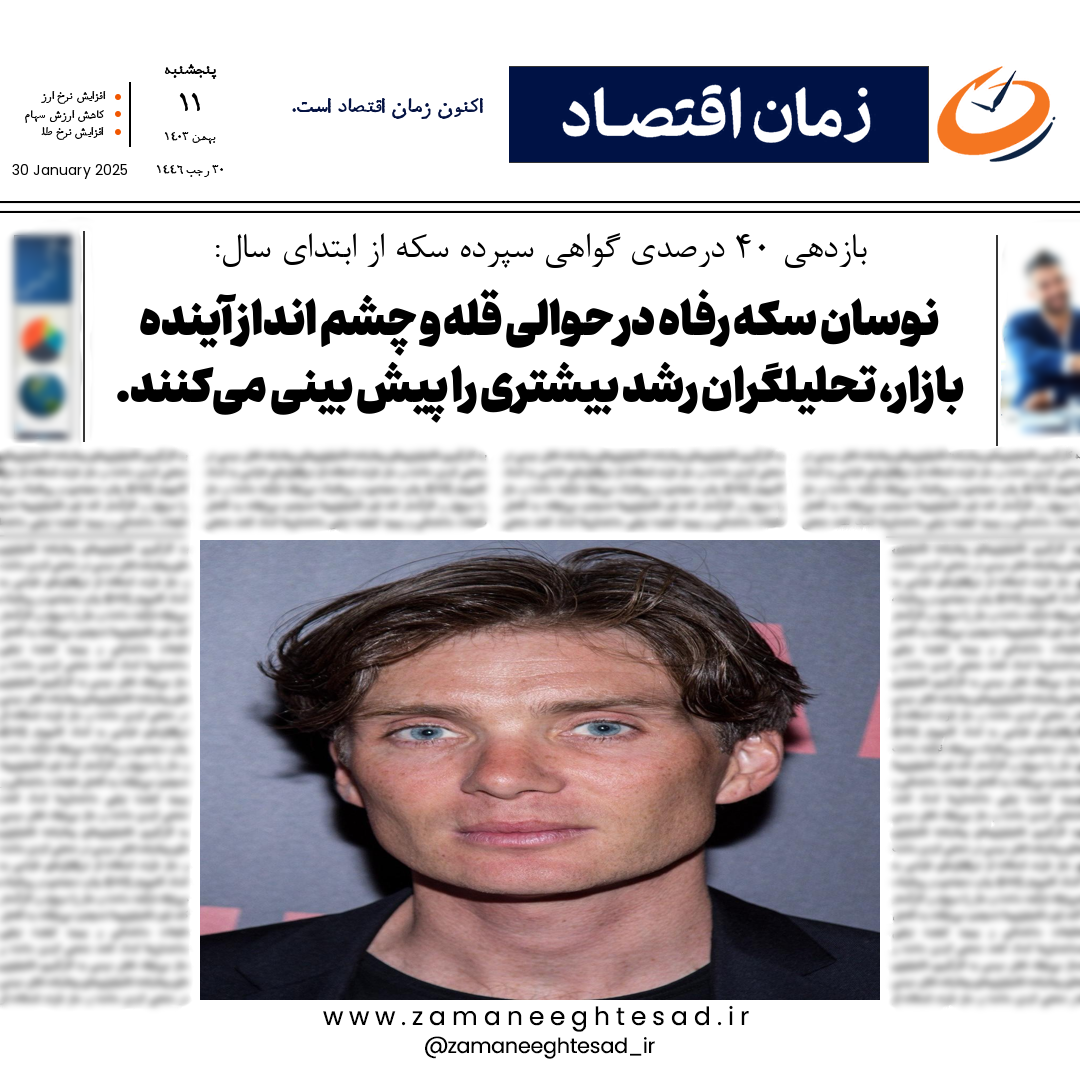
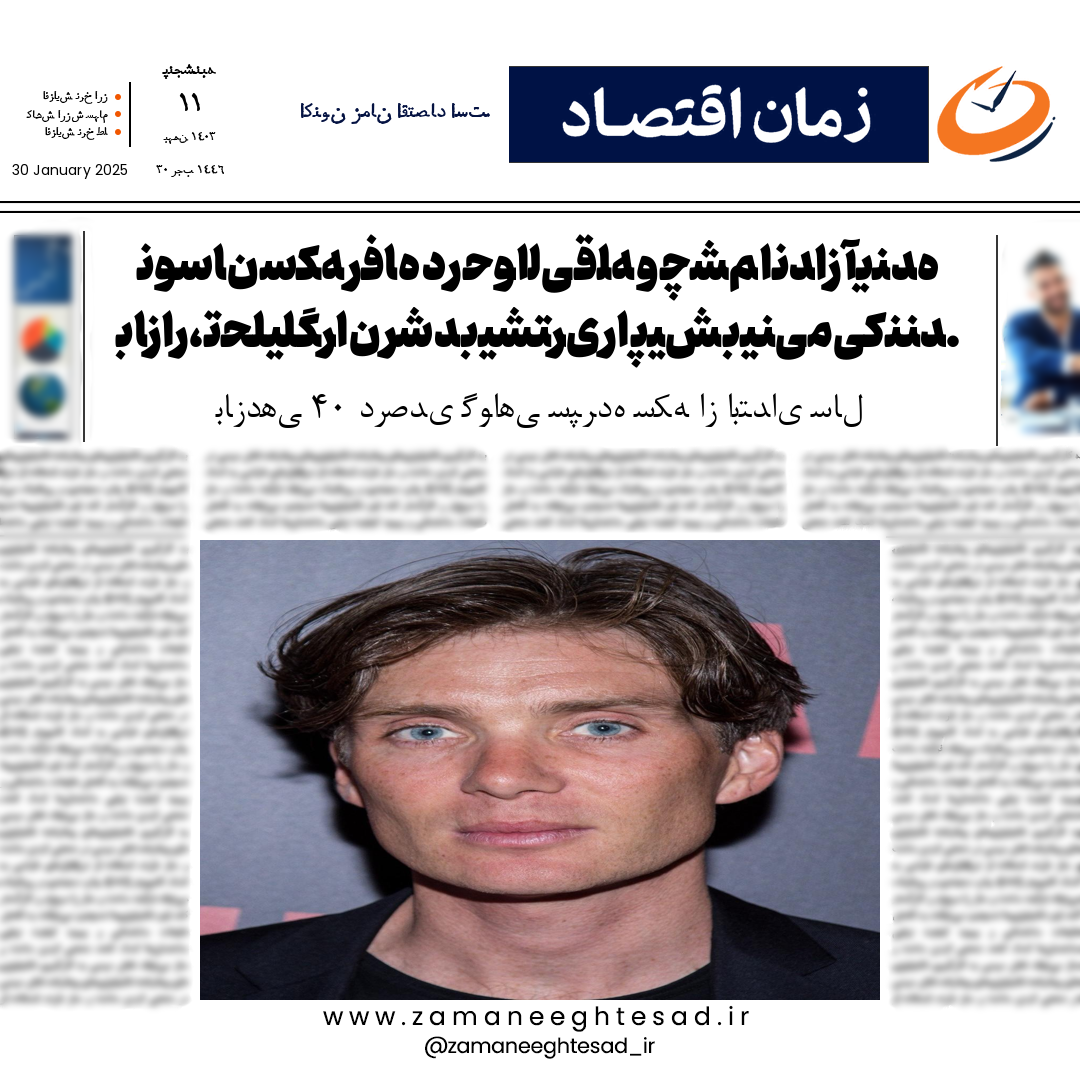
hopefully it works this time

diff --git a/generate_image.py b/generate_image.py
@@ -29,7 +29,7 @@ def generate_news_image(
     output_path,
     title,
     main_content,
-    slogan,
+    slogan ,
     user_image_path,
     todays_events="",
     days_into_future=0,
@@ -149,20 +149,19 @@ def generate_news_image(
     hejri_x = date_positions["hejri"][0] - (hejri_width // 2)  # Center-align
     draw.text((hejri_x, date_positions["hejri"][1]), hejri_text, font=event_font, fill="black")
         
-    # Prepare Farsi text
-    title = prepare_farsi_text(title)
-    # main_content = prepare_farsi_text(main_content)
-    # slogan = prepare_farsi_text(slogan)
+    
+    
 
     # Draw title
+    title = prepare_farsi_text(title)
     title_bbox = draw.textbbox((0, 0), title, font=title_font)
     title_width = title_bbox[2] - title_bbox[0]
-    title_position = ((base_image.size[0] - title_width) // 2, 230)
+    title_position = ((base_image.size[0] - title_width) // 2, 390)
     draw.text(title_position, title, font=title_font, fill="black")
 
     # Draw main content
     box_width = 980 - 100
-    y_offset = 285
+    y_offset = 230
     current_line = ""
     lines = []
 
@@ -186,37 +185,43 @@ def generate_news_image(
         x_position = 100 + (box_width - line_width) // 2
         draw.text((x_position, y_offset), reshaped_line, font=content_font, fill="black")
         y_offset += line_height
-        if y_offset > 400:
+        if y_offset > 380:
             break
 
     # Draw slogan
-    slogan_box_width = 505 - 270
-    slogan_y_offset = 95
-    current_slogan_line = ""
-    slogan_lines = []
+    if slogan == "اکنون زمانِ اقتصاد است." :
+        slogan = prepare_farsi_text(slogan)
+        title_position = (300, 100)
+        draw.text(title_position, slogan, font=slogan_font, fill=(4, 18, 66))
 
-    for word in slogan.split():
-        test_line = f"{current_slogan_line} {word}".strip()
-        test_bbox = draw.textbbox((0, 0), test_line, font=slogan_font)
-        test_width = test_bbox[2] - test_bbox[0]
-        if test_width <= slogan_box_width:
-            current_slogan_line = test_line
-        else:
+    else: 
+        slogan_box_width = 505 - 270
+        slogan_y_offset = 95
+        current_slogan_line = ""
+        slogan_lines = []
+
+        for word in slogan.split():
+            test_line = f"{current_slogan_line} {word}".strip()
+            test_bbox = draw.textbbox((0, 0), test_line, font=slogan_font)
+            test_width = test_bbox[2] - test_bbox[0]
+            if test_width <= slogan_box_width:
+                current_slogan_line = test_line
+            else:
+                slogan_lines.append(current_slogan_line)
+                current_slogan_line = word
+        if current_slogan_line:
             slogan_lines.append(current_slogan_line)
-            current_slogan_line = word
-    if current_slogan_line:
-        slogan_lines.append(current_slogan_line)
 
-    for line in slogan_lines:
-        reshaped_line = prepare_farsi_text(line)
-        line_bbox = draw.textbbox((0, 0), reshaped_line, font=slogan_font)
-        line_width = line_bbox[2] - line_bbox[0]
-        line_height = line_bbox[3] - line_bbox[1]
-        x_position = 270 + (slogan_box_width - line_width) // 2
-        draw.text((x_position, slogan_y_offset), reshaped_line, font=slogan_font, fill=(4, 18, 66))  # Red color
-        slogan_y_offset += line_height
-        if slogan_y_offset > 130:
-            break
+        for line in slogan_lines:
+            reshaped_line = prepare_farsi_text(line)
+            line_bbox = draw.textbbox((0, 0), reshaped_line, font=slogan_font)
+            line_width = line_bbox[2] - line_bbox[0]
+            line_height = line_bbox[3] - line_bbox[1]
+            x_position = 270 + (slogan_box_width - line_width) // 2
+            draw.text((x_position, slogan_y_offset), reshaped_line, font=slogan_font, fill=(4, 18, 66))  
+            slogan_y_offset += line_height
+            if slogan_y_offset > 130:
+                break
 
     # Draw today's events
     if todays_events.strip():
@@ -242,7 +247,7 @@ def generate_news_image(
 # Example usage
 generate_news_image(
     output_path="news_output.png",
-    title="بازدهی ۴۰ درصدی گواهی سپرده سکه از ابتدای سال:",
+    title="بازدهی ۴۰ درصدی گواهی سپرده سکه از ابتدای سال",
     main_content="نوسان سکه رفاه در حوالی قله و چشم انداز آینده بازار، تحلیلگران رشد بیشتری را پیش بینی میکنند.",
     slogan="اکنون زمانِ اقتصاد است.",
     user_image_path="input_image.jpg",

diff --git a/bot2.py b/bot2.py
@@ -26,7 +26,7 @@ data = {}  # Dictionary to store user-provided data during the conversation.
 # Timeout duration (in seconds)
 TIMEOUT = 300  # Define conversation timeout duration.
 
-PASSWORD = "securepasswordsecurepassword"  # Set your desired password
+PASSWORD = "securepassword"  # Set your desired password
 AUTHORIZED_USERS = set()  # Set to store authorized user IDs
 
 
@@ -109,7 +109,7 @@ async def receive_slogan(update: Update, context: CallbackContext):
         return SLOGAN  # Stay in the SLOGAN step.
 
     if update.message.text == 'استفاده از شعار پیشفرض':  # Check if the user chose the default slogan.
-        data['slogan'] = "اکنون زمانِ اقتصاد است!"  # Set the default slogan.
+        data['slogan'] = "اکنون زمانِ اقتصاد است."  # Set the default slogan.
         logger.info("Default slogan selected.")  # Log the default slogan choice.
         reply_markup = ReplyKeyboardMarkup([['تاریخ امروز', 'انتخاب تاریخ آینده']], one_time_keyboard=True)  # Create a keyboard for date selection.
         await update.message.reply_text("شعار ذخیره شد. لطفاً یکی از گزینههای زیر را انتخاب کنید:", reply_markup=reply_markup)  # Prompt for date selection.
